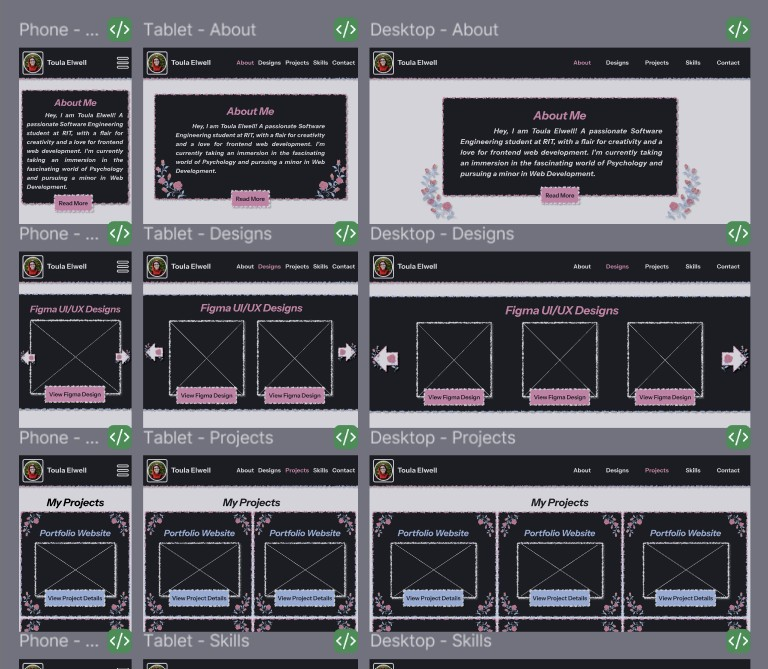
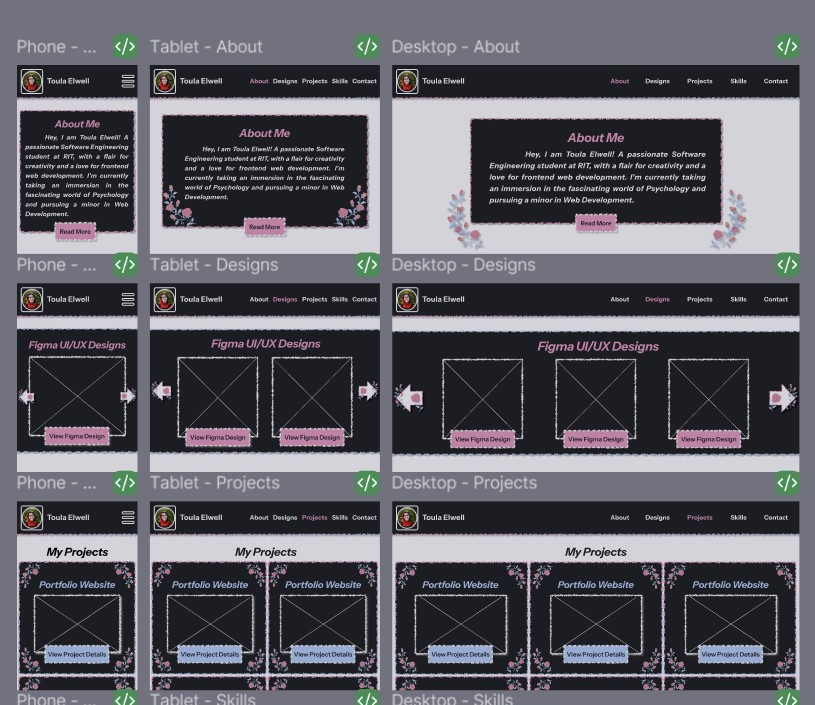
Figma Section almost complete

diff --git a/Resources/styles.css b/Resources/styles.css
@@ -274,6 +274,18 @@ main section p {
 main section#about {
     padding-bottom: 11px;
     margin-bottom: 74px;
+    margin-top: 150px;
+}
+
+main section#designs {
+    width: 100%;
+    text-align: center;
+    max-width: none;
+    border-radius: 0px;
+    padding-left: 0px;
+    padding-right: 0px;
+    border: none;
+    margin-top: 111px;
 }
 
 /* Desktop Version Collapsed */
@@ -323,14 +335,17 @@ main section button img {
 }
 
 main section#designs button {
-    width: 206px;
+    width: auto;
     height: 55px;
-    bottom: -53px;
+    bottom: 46px;
+    max-width: 206px;
+    min-width: fit-content;
 }
 
 main section#designs button img {
     position: absolute;
-    width: 219px;
+    max-width: 219px;
+    width: 110%;
     bottom: -12px;
     left: -7px;
     height: 71px;
@@ -339,20 +354,24 @@ main section#designs button img {
 .figmaBorderContainer {
     position: relative;
     width: fit-content;
+    margin: 21px;
 }
 
 .designImg {
-    width: 360px;
-    height: 360px;
-    border-radius: 6px;
+    width: 100%;           
+    height: auto;          
+    max-width: 360px;
     display: block;
     margin: 5% auto;
     object-fit: cover;
+    border-radius: 6px;
+
 }
 
 .figmaDesignsContainer img:nth-of-type(2) {
-    width: 376px;
-    height: 381px;
+    width: 103%;
+    height: 104%;
+    max-width: 371px;
     border-radius: 6px;
     display: block;
     position: absolute;
